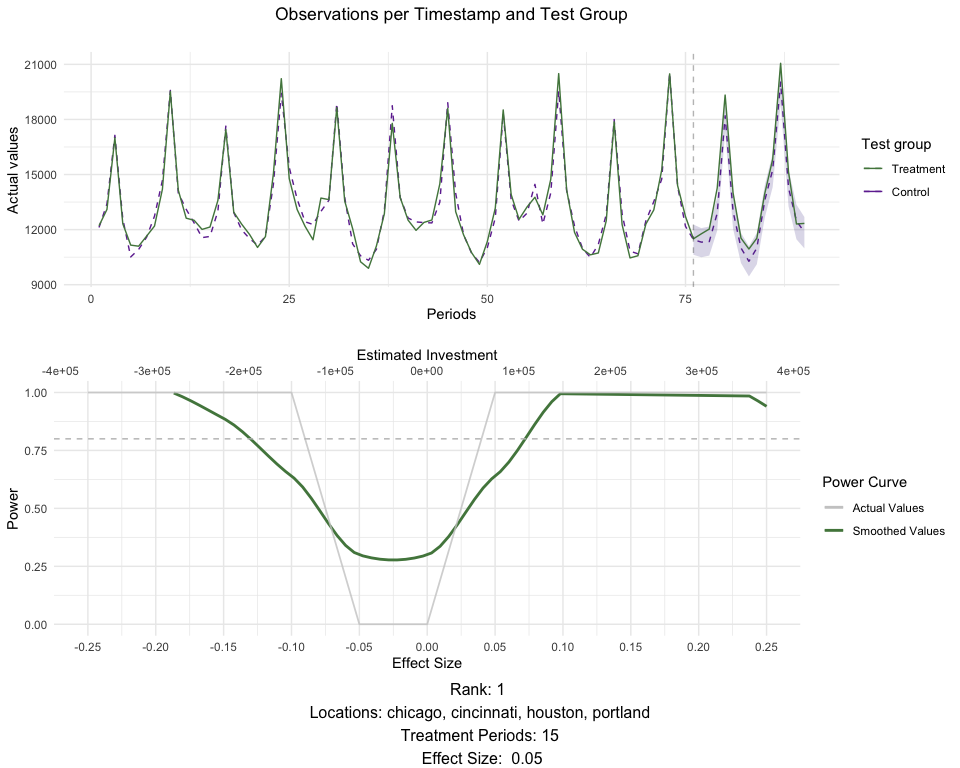
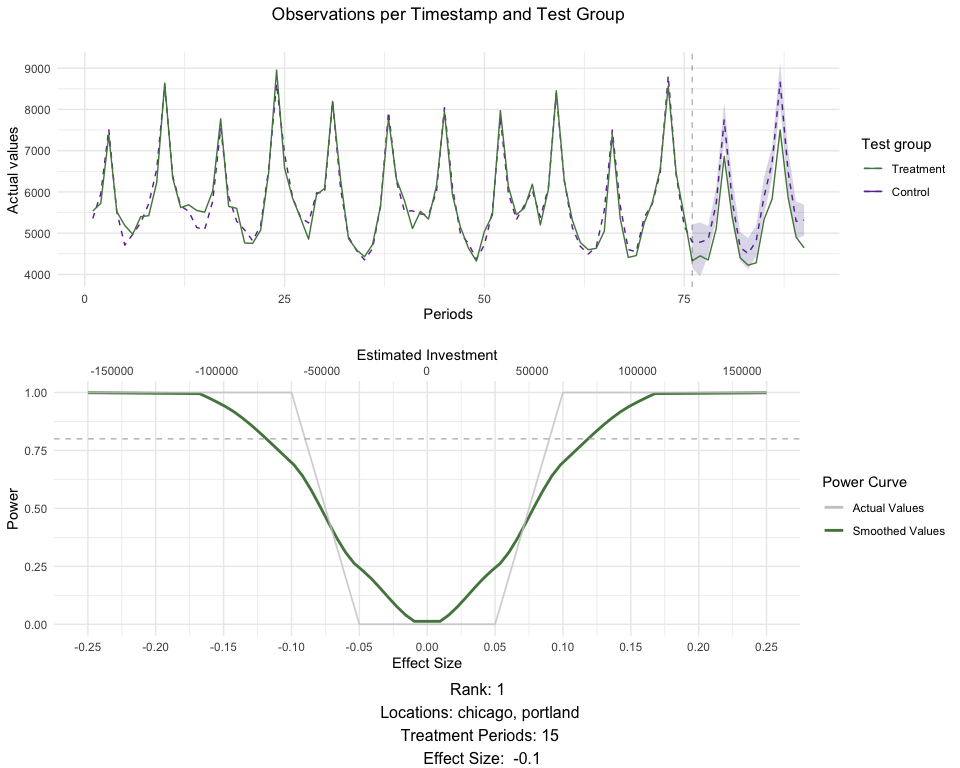
edited md

diff --git a/vignettes/GeoLift_Walkthrough.md b/vignettes/GeoLift_Walkthrough.md
@@ -361,22 +361,22 @@ duration between 10 and 15 days we obtain:
     #> 2  2       chicago, cincinnati, houston, portland       15       0.05     1
     #> 3  3                            chicago, portland       15      -0.10     1
     #> 4  4                            chicago, portland       10      -0.10     1
-    #> 5  5            atlanta, chicago, las vegas, reno       10      -0.05     1
-    #> 6  6       chicago, cincinnati, houston, portland       10      -0.10     1
+    #> 5  5       chicago, cincinnati, houston, portland       10      -0.10     1
+    #> 6  6                   chicago, houston, portland       10      -0.10     1
     #>   AvgScaledL2Imbalance Investment    AvgATT Average_MDE ProportionTotal_Y
     #> 1            0.4536741   69300.00 -174.5212 -0.04735064        0.10714670
-    #> 2            0.1971864   74118.38  159.3627  0.04829913        0.07576405
+    #> 2            0.1971864   74118.38  159.3627  0.04829912        0.07576405
     #> 3            0.1738778   64563.75 -283.8929 -0.09904014        0.03306537
     #> 4            0.1682310   43646.25 -281.0099 -0.09690716        0.03306537
-    #> 5            0.4443981   56873.25 -165.5250 -0.04393501        0.08745281
-    #> 6            0.1966996   99027.75 -343.5647 -0.10365827        0.07576405
+    #> 5            0.1966996   99027.75 -343.5647 -0.10365827        0.07576405
+    #> 6            0.2305628   75389.25 -319.8125 -0.09588481        0.05797087
     #>   abs_lift_in_zero    Holdout rank correlation
     #> 1            0.003 0.10714670    1   0.9788758
     #> 2            0.002 0.92423595    1   0.9144814
     #> 3            0.001 0.03306537    1   0.9321104
     #> 4            0.003 0.03306537    4   0.9321104
-    #> 5            0.006 0.08745281    5   0.9683079
-    #> 6            0.004 0.07576405    5   0.9144814
+    #> 5            0.004 0.07576405    5   0.9144814
+    #> 6            0.004 0.05797087    5   0.9139549
 
 The results of the power analysis and market selection provide us with
 several key metrics that we can use to select our test market. These
@@ -441,9 +441,10 @@ metrics are:
     variable allows for ties.
 
 The results in `MarketSelection` show that the test markets with the
-best ranks are: `(chicago, cincinnati, houston, portland)` and
-`(chicago, portland)`, both tied at rank 2. We can `plot()` both of
-these results to inspect them further. This plot will show how the
+best ranks are: `(chicago, cincinnati, houston, portland)`,
+`(atlanta, chicago, cleveland, las vegas, reno)` and
+`(chicago, portland)`, all of them tied at rank 1. We can `plot()` these
+last two results to inspect them further. This plot will show how the
 results of the `GeoLift()` model would look like with the latest
 possible test period as well as the test’s power curve across all
 simulations.
@@ -467,10 +468,10 @@ this market selection.
 
 
     # Plot for chicago, portland for a 15 day test
-    plot(MarketSelections, market_ID = 2, print_summary = TRUE)
+    plot(MarketSelections, market_ID = 3, print_summary = TRUE)
     #> ##################################
     #> #####   GeoLift Simulation   #####
-    #> ####  Simulating: 5% Lift  ####
+    #> ####  Simulating: -10% Lift  ####
     #> ##################################
     #> 
     #> GeoLift Results Summary
@@ -478,18 +479,18 @@ this market selection.
     #> #####     Test Statistics    #####
     #> ##################################
     #> 
-    #> * Average ATT: 159.363
-    #> * Percent Lift: 4.8%
-    #> * Incremental Y: 9562
-    #> * P-value: 0.06
+    #> * Average ATT: -283.893
+    #> * Percent Lift: -9.9%
+    #> * Incremental Y: -8517
+    #> * P-value: 0
     #> 
     #> ##################################
     #> #####   Balance Statistics   #####
     #> ##################################
     #> 
-    #> * L2 Imbalance: 948.101
-    #> * Scaled L2 Imbalance: 0.1972
-    #> * Percent improvement from naive model: 80.28%
+    #> * L2 Imbalance: 868.598
+    #> * Scaled L2 Imbalance: 0.1739
+    #> * Percent improvement from naive model: 82.61%
     #> * Average Estimated Bias: NA
     #> 
     #> ##################################
@@ -499,17 +500,19 @@ this market selection.
     #> * Prognostic Function: NONE
     #> 
     #> * Model Weights:
-    #>  * atlanta: 0.025
-    #>  * austin: 0.0377
-    #>  * baltimore: 0.0681
-    #>  * baton rouge: 0.217
-    #>  * honolulu: 0.0714
-    #>  * indianapolis: 0.0283
-    #>  * miami: 0.1635
-    #>  * nashville: 0.1883
-    #>  * reno: 0.0666
-    #>  * san diego: 0.1324
-    #>  * san francisco: 0.0017
+    #>  * austin: 0.0237
+    #>  * baton rouge: 0.1511
+    #>  * cincinnati: 0.2429
+    #>  * dallas: 0.0644
+    #>  * honolulu: 0.0669
+    #>  * houston: 0.0292
+    #>  * los angeles: 0.0179
+    #>  * miami: 0.2056
+    #>  * minneapolis: 0.0619
+    #>  * nashville: 0.0641
+    #>  * new york: 0.0216
+    #>  * reno: 0.0113
+    #>  * san diego: 0.0394
 
 <img src="GeoLift_Walkthrough_files/figure-gfm/GeoLiftMarketSelection_Plot2-1.png" style="display: block; margin: auto;" />
 
@@ -630,7 +633,7 @@ parameters respectively.
     #> 
     #> The results are significant at a 95% level. (TOTAL)
     #> 
-    #> There is a 0.9% chance of observing an effect this large or larger assuming treatment effect is zero.
+    #> There is a 1.3% chance of observing an effect this large or larger assuming treatment effect is zero.
 
 The results show that the campaigns led to a 5.4% lift in units sold
 corresponding to 4667 incremental units for this 15-day test. Moreover,
@@ -800,7 +803,7 @@ decide which is the best approach by setting the model parameter to
     #> 
     #> The results are significant at a 95% level. (TOTAL)
     #> 
-    #> There is a 1.9% chance of observing an effect this large or larger assuming treatment effect is zero.
+    #> There is a 0.9% chance of observing an effect this large or larger assuming treatment effect is zero.
 
     summary(GeoTestBest)
     #> 
@@ -812,7 +815,7 @@ decide which is the best approach by setting the model parameter to
     #> * Average ATT: 156.805
     #> * Percent Lift: 5.5%
     #> * Incremental Y: 4704
-    #> * P-value: 0.02
+    #> * P-value: 0.01
     #> 
     #> ##################################
     #> #####   Balance Statistics   #####
